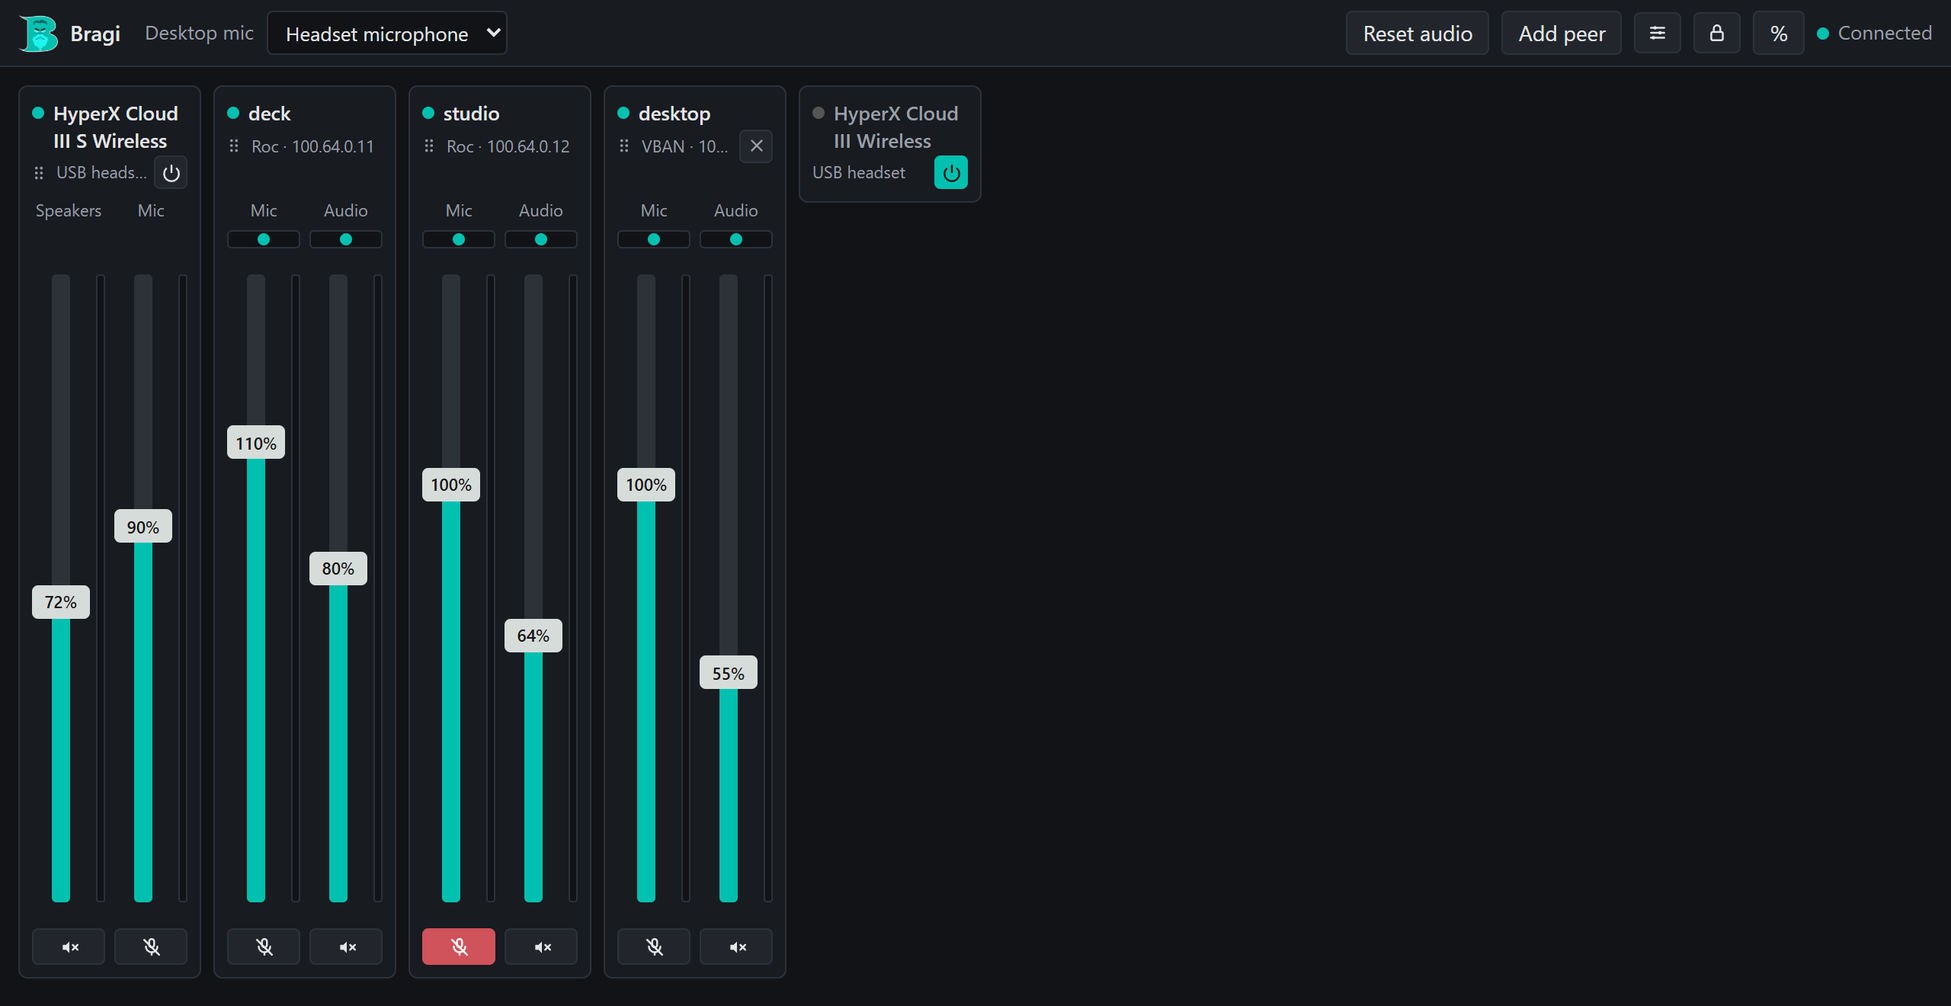
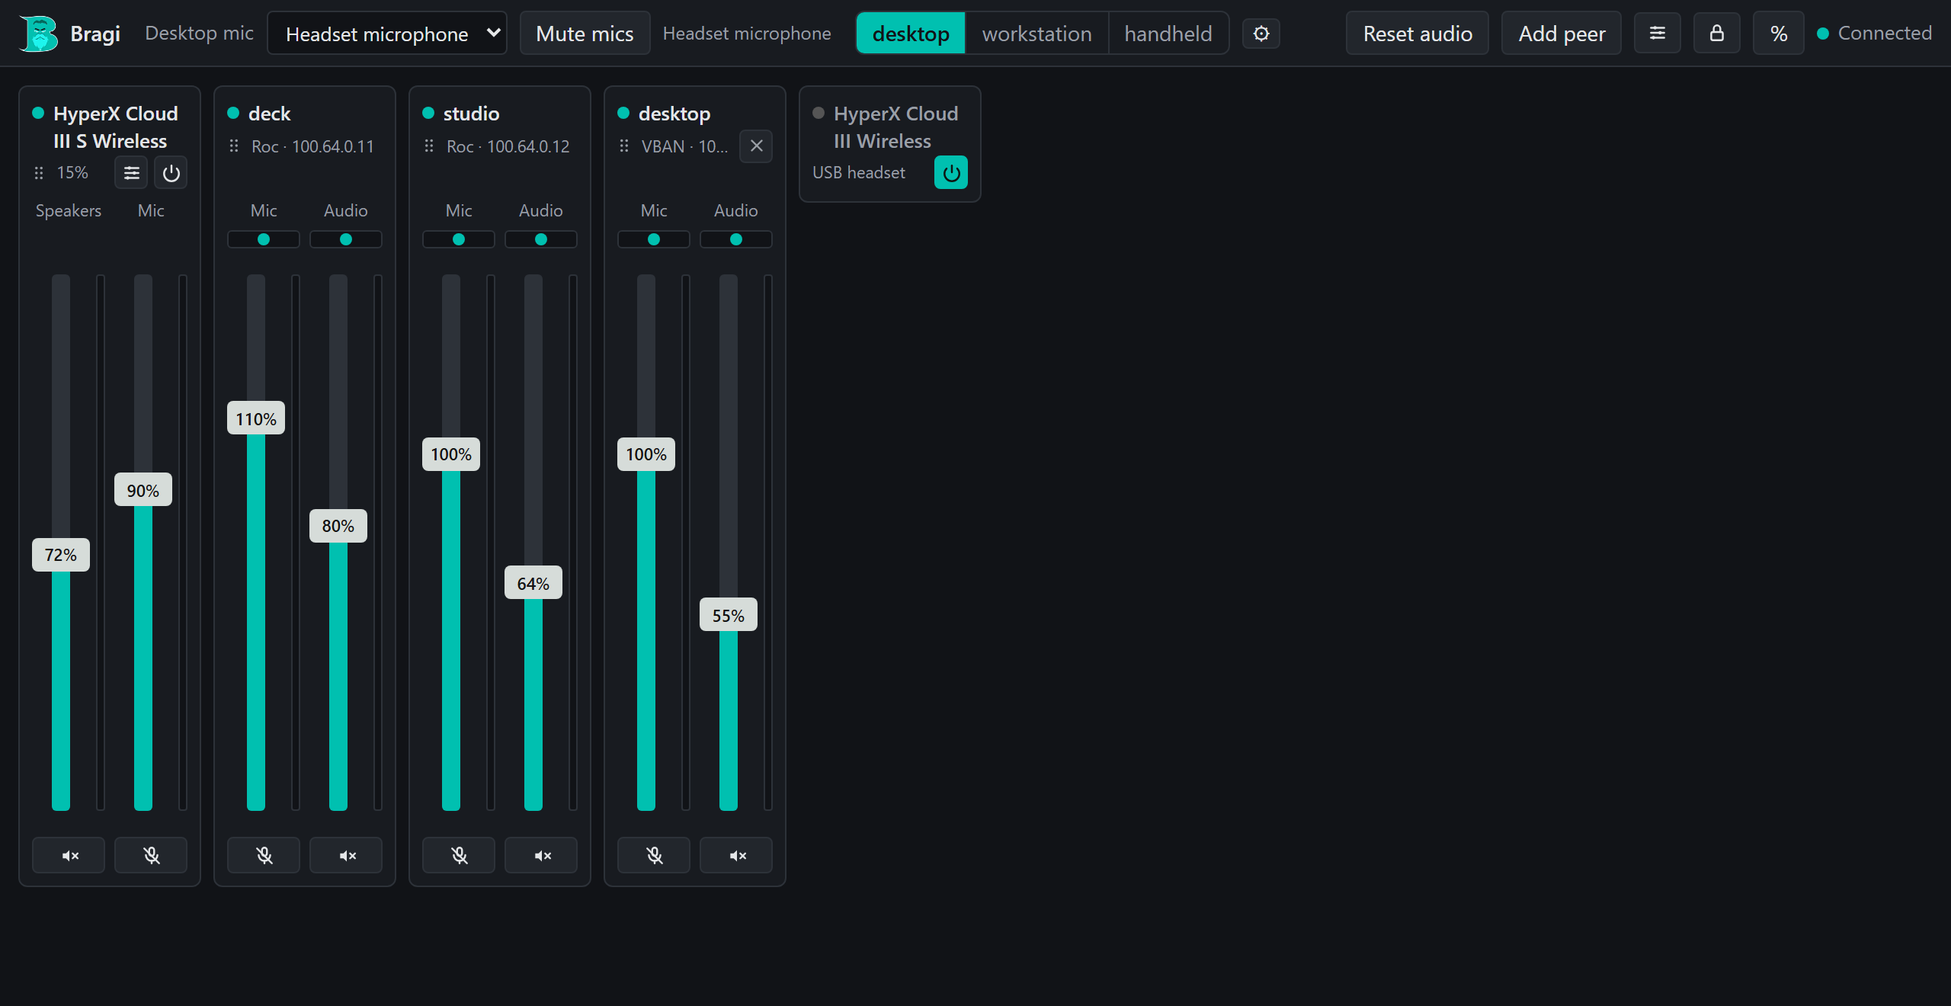
README: the desk hub it has become, with new screenshots (#79)
The README still described an audio hub. Bragi now also runs the KVM
(the headless Deskflow fork, layouts drawn from real monitors, a layout
per setup), game controllers and Bluetooth pairing, button and hotkey
actions, setup checks, backup and hub moves, and dashboard updates. It
also installs from apt rather than Docker.

- New intro and a "Why" section with the aim.
- Features grouped: audio, KVM, controllers and buttons, running the hub.
- Diagram with the Deskflow server and controllers.
- Quick start from the apt repository.
- Screenshots retaken from dev/server.py with generic computer names:
  the dashboard with the KVM bar, the KVM layout editor, the phone view
  and the Add peer dialog.
- client/README.md and the downloads note: the Windows tray app carries
  the VBAN audio itself, and controllers on Windows go through ViGEmBus.
  Neither needs Voicemeeter any more.

diff --git a/app/templates/_downloads.html b/app/templates/_downloads.html
@@ -4,7 +4,7 @@
   <h3>Get the Bragi apps</h3>
   <ul class="download-list">
     <li><a href="{{ downloads.windows }}" rel="noopener">Windows</a>
-      <span class="form-note">tray app{% if downloads.client_version %} {{ downloads.client_version }}{% endif %}: audio with Voicemeeter, KVM, controllers. Updates itself.</span></li>
+      <span class="form-note">tray app{% if downloads.client_version %} {{ downloads.client_version }}{% endif %}: audio, KVM, controllers. Updates itself.</span></li>
     <li><a href="{{ downloads.linux }}" rel="noopener">Linux</a>
       <span class="form-note">tray app (AppImage){% if downloads.client_version %} {{ downloads.client_version }}{% endif %}. Make it executable and run it; it updates itself.</span></li>
     <li><a href="{{ downloads.android }}" rel="noopener">Android</a>

diff --git a/README.md b/README.md
@@ -4,111 +4,181 @@
 
 # Bragi
 
-A dedicated, headless audio hub with a web mixer. Plug a USB headset into
-an always-on Linux box (a Raspberry Pi, or a small x86 server for more USB
-headroom), run Bragi on it, and the
-headset is shared by every machine on your tailnet. Linux desktops, Windows PCs and Android
-phones send their audio to it and hear its mic. Bragi is the control panel
-on top: per-peer volume and balance in both directions, live level meters,
-and adding or removing peers without hand-editing PipeWire config.
+One always-on box at the desk that owns the shared things: the USB headset,
+the keyboard and mouse, the game controllers. Every computer at the desk,
+and the phones, uses them through it. You switch computers, not cables.
 
-![The Bragi dashboard: one USB headset and three peers, each with a mic and an audio fader](docs/screenshots/dashboard.png)
+The box is a Raspberry Pi 4 or a small x86 server, on your tailnet. Bragi
+runs on it and is the control panel: a web mixer for the audio, a KVM that
+hands the keyboard and mouse to whichever computer you point at, and
+dialogs for pairing controllers and wiring buttons to actions. Tray apps
+for Linux and Windows and an Android app connect each device to it.
+
+![The Bragi dashboard: a HyperX headset, three peers with mic and audio faders, and the KVM bar giving the keyboard and mouse to "desktop"](docs/screenshots/dashboard.png)
 
 Named after the Norse god of poetry and eloquence, fitting for something
 that pushes voices around a network.
 
+## Why
+
+A desk with a few computers and one wireless headset means moving the
+headset's dongle to whichever computer you're on, and only that computer
+is heard. Software KVMs share the keyboard and mouse, but they place each
+computer as one rectangle on a grid, so an ultrawide next to a smaller
+monitor leaves corners the cursor falls into.
+
+Bragi turns it around. The peripherals plug into a box that's always on,
+and the computers are its peers. The headset plays every computer at
+once, its mic goes to all of them, and the keyboard and mouse go to one at
+a time.
+
 ## What it does
+
+### Audio
 
 - **Mixer console.** Every headset and peer gets a card with two faders,
   one per direction, with mute, balance, live level meters, and % or dB
   readouts. Every open tab and client stays in sync over a WebSocket.
-- **USB headsets, detected automatically.** Whatever is plugged in shows up.
-  Switching a headset off releases the USB device entirely, not just mutes
-  it. Its physical volume knob works even though the host has no desktop
-  session to catch the media keys.
+- **USB headsets, detected automatically.** Whatever is plugged in shows
+  up, and Settings > Main headset picks which one the peers use. Switching
+  a headset off releases the USB device entirely, not just mutes it. Its
+  physical volume knob works even though the host has no desktop session.
+- **A second headset** for a second person at the desk. It plays
+  everything the main one plays (Settings > Second headset).
+- **A desk mic** can stand in for the headset mic, and follow the
+  headset's mute. "Mute mics" mutes every mic the computers hear.
 - **HyperX Cloud III S Wireless extras.** Battery and charging state on the
-  card, live, plus mic monitoring (hear yourself, with its own volume), the auto-off timer and a 10-band EQ with
-  presets, built-in and your own. The macro button's single, double and
-  triple press can each send an HTTP request or switch mic monitoring. They
-  need a kernel quirk and a udev rule on the host, see
+  card, mic monitoring with its own volume, the auto-off timer, and a
+  10-band EQ with built-in and saved presets. The macro button's single,
+  double and triple press can each run an action. These need a kernel quirk
+  and a udev rule on the host, see
   [`docs/deployment.md`](docs/deployment.md#hyperx-cloud-iii-s-wireless-controls).
 - **Peers over Roc or VBAN.** [Roc](https://roc-streaming.org/) for Linux
-  and Android, VBAN for Windows machines running Voicemeeter. Peers added
-  from the dashboard go live within about a second, and survive PipeWire
-  restarts, reboots and redeploys.
-- **Real presence.** A peer running the Bragi desktop client or the
-  Android app shows a status dot driven by a live connection, not by
-  whether a PipeWire node happens to exist.
-- **A desktop tray client and an Android app.** Both are released from this
-  repo and update themselves.
-- **An HTTP and WebSocket API** with API keys, so other tools can read and
-  set volumes. Its guide is served at `/api/v1/help`.
-- **Recovery tools.** A "Reset audio" button and a nightly reset (its hour
-  set in the dashboard's Settings) restart the PipeWire stack, saving a
-  diagnostic snapshot first.
+  and Android, VBAN for Windows. Peers added from the dashboard go live
+  within about a second, and survive PipeWire restarts, reboots and
+  updates.
+- **Recovery.** "Reset audio" and a nightly reset restart the PipeWire
+  stack, saving a diagnostic snapshot first.
+
+### Keyboard and mouse (KVM)
+
+The keyboard and mouse plug into the hub, and a
+[fork of Deskflow](https://github.com/NickMarcha/deskflow/tree/headless)
+runs on it as a headless server. Each computer runs the normal Deskflow
+client.
+
+- **The KVM bar** at the top of the dashboard, and the tray menu, give the
+  keyboard and mouse to a computer. So do hotkeys and mouse buttons.
+- **A layout drawn from the real monitors.** Each tray app reports its
+  computer's monitors, and the setup dialog draws each computer as those
+  monitors. Drag them until they touch where the cursor should cross. The
+  cursor stays on real monitors, so a smaller screen next to an ultrawide
+  has no dead corner. See [`docs/kvm-layout.md`](docs/kvm-layout.md).
+- **A layout per setup.** Save the layout for the monitors connected now.
+  When a dock or a TV cable brings that set back, the KVM switches to it by
+  itself.
+- **Identify** shows each computer's name on its own screens.
+
+<p align="center">
+  <img src="docs/screenshots/kvm-layout.png" alt="The KVM layout editor: desktop's ultrawide and smaller BenQ on top, handheld and workstation below, with the crossing edges highlighted" width="620">
+</p>
+
+### Controllers, Bluetooth and buttons
+
+- **Game controllers paired with the hub** play on any computer. "Use
+  <controller> here" in the tray moves it. On Linux the computer gets the
+  controller itself over `/dev/uhid`, so paddles, Share and rumble work. On
+  Windows it's a virtual Xbox pad through ViGEmBus.
+- **Bluetooth pairing** for controllers and anything else, from the
+  dashboard. The hub has no screen to do it on.
+- **Buttons and hotkeys run actions.** Keyboard hotkeys, Logitech mouse
+  buttons (HID++) and the headset's macro button can switch computers,
+  press keys on the active one, mute mics or send an HTTP request. A
+  controller's back paddles can copy another button, and Share can press
+  keys.
+
+### Running the hub
+
+- **Tray apps and an Android app**, released from this repo, that update
+  themselves. A QR code or link from "Add peer" fills in their connection.
+- **Settings > Setup** checks the host (lingering, real-time audio, groups,
+  the HyperX quirk, Tailscale) and fixes what it can.
+- **Settings > USB** shows which devices share a full-speed USB lane, the
+  usual reason a second headset or a mic crackles.
+- **Backup and move.** One file holds a hub's settings. Restore it on a new
+  box, then "Move" tells every tray app and phone to follow it there.
+- **Updates from the dashboard** for Bragi and the Deskflow server.
+- **Sign-in** with a password, a passkey, or your Tailscale account, and
+  API keys for other tools. The API guide is served at `/api/v1/help`.
 
 <p align="center">
   <img src="docs/screenshots/mobile.png" alt="The dashboard on a phone" width="300">
   &nbsp;
-  <img src="docs/screenshots/add-peer.png" alt="Adding a Roc or VBAN peer" width="520">
+  <img src="docs/screenshots/add-peer.png" alt="Add peer: app downloads, a connection code, or a peer added by hand" width="420">
 </p>
 
 ## How it fits together
 
 ```
-                          ┌─ Raspberry Pi ─────────────────────────────┐
- Linux desktop ── Roc ──▶ │  PipeWire + WirePlumber                    │
- Android phone ── Roc ──▶ │  Roc and VBAN modules ◀──▶ USB headset     │
- Windows PC ─── VBAN ───▶ │        ▲                                   │
-                          │        │ pw-dump / wpctl / pw-cli          │
- browser, API ─ HTTPS ──▶ │  Bragi (Docker, FastAPI)                   │
-                          └────────────────────────────────────────────┘
-                                  all over Tailscale
+                     ┌─ hub: Pi 4 or a small x86 box ──────────────┐
+ Linux ──── Roc ───▶ │  PipeWire + WirePlumber ◀──▶ USB headsets   │
+ Android ── Roc ───▶ │  Roc and VBAN modules                       │
+ Windows ── VBAN ──▶ │                                             │
+                     │  Deskflow server ◀── USB keyboard and mouse │
+ Deskflow clients ◀─ │                                             │
+                     │  Bragi ◀── Bluetooth controllers            │
+ tray apps ◀──WS───▶ │    drives PipeWire and Deskflow             │
+ browser, API ─────▶ │                                             │
+                     └─────────────────────────────────────────────┘
+                                 all over Tailscale
 ```
 
-Bragi doesn't carry audio. PipeWire does. Bragi shells out to `pw-dump`,
-`wpctl` and `pw-cli`, the same tools you'd use by hand, through the
-PipeWire socket bind-mounted into its container. Peers added from the
-dashboard go into a config file that a `systemd --user` unit on the host
-runs as its own PipeWire client, so they keep running whether or not Bragi
-is up.
+Bragi doesn't carry the audio or the mouse. PipeWire carries the audio, and
+Bragi drives it with `pw-dump`, `wpctl` and `pw-cli`, the same tools you'd
+use by hand. Peers added from the dashboard go into a config file that a
+`systemd --user` unit runs as its own PipeWire client, so they keep running
+whether or not Bragi is up. The Deskflow server moves the mouse. Bragi
+writes its config, switches it and reads its status. Controllers are the
+exception: Bragi reads them on the hub and sends their input to the tray
+app on the computer that has them.
 
 ## Quick start
 
-On any Linux box with PipeWire, a USB headset, Docker and Tailscale:
+On Debian 13 (trixie) or Raspberry Pi OS, arm64 or amd64, with Tailscale:
 
 ```bash
-git clone https://github.com/NickMarcha/bragi.git && cd bragi
-host/systemd/install.sh     # host units, and a .env with this host's uid and groups
-docker compose up -d --build
-tailscale serve --bg --https=443 http://127.0.0.1:8000
+curl -fsSL https://nickmarcha.github.io/apt/install.sh | sh   # adds the apt repository, installs bragi
+sudo apt install deskflow                                     # the headless KVM server, optional
 ```
 
-Open `https://<host>.<tailnet>.ts.net/`, set a password under the lock
-icon, and add peers. [`docs/deployment.md`](docs/deployment.md) has the
-details: host requirements, peers you already configured by hand, and
-running it as a Komodo Stack.
+Open the dashboard on `http://127.0.0.1:8000` (an SSH tunnel works), and
+work through Settings > Setup. It can set up `tailscale serve` so the
+dashboard is at `https://<host>.<tailnet>.ts.net/`. Then set a password
+under the lock icon. [`docs/deployment.md`](docs/deployment.md) covers
+choosing the box, USB placement, the older Docker setup and moving to a new
+hub.
 
-Then connect the peers:
+Then connect the devices. "Add peer" in the dashboard has the download
+links and a connection code:
 
-- **Linux desktop.** Run `BragiClient.AppImage` from the latest `client-v*`
+- **Linux.** Run `BragiClient.AppImage` from the latest `client-v*`
   [release](https://github.com/NickMarcha/bragi/releases). Its "Connect to
-  Bragi" window registers the machine and sets up the audio link.
-  [`client/README.md`](client/README.md).
+  Bragi" window registers the machine and sets up the audio link and the
+  Deskflow client's server address. [`client/README.md`](client/README.md).
+- **Windows.** Install `BragiClient-win-Setup.exe` from the same release.
+  The tray app sends and receives the VBAN audio itself, through any
+  Windows audio device.
 - **Android.** Install `BragiAndroid.apk` from the latest `android-v*`
-  release, enter your Bragi URL, and start.
-  [`android/README.md`](android/README.md).
-- **Windows.** Add a VBAN peer in the dashboard and point Voicemeeter at
-  the Pi on port 6980. The default stream names are `BragiMic` (to the PC)
-  and `<Name>Audio` (from it).
+  release and scan the connection code. [`android/README.md`](android/README.md).
 
 ## Repository layout
 
 | Path | What |
 |---|---|
 | `app/` | The server: FastAPI, Jinja templates, htmx and a WebSocket control plane. |
-| `host/` | `systemd --user` units and scripts that run on the host, outside the container. |
-| `client/` | The Linux tray app (Avalonia, .NET) and its Roc link unit. |
+| `host/` | `systemd --user` units and scripts that run on the host. |
+| `packaging/` | The Debian package. |
+| `client/` | The Linux and Windows tray app (Avalonia, .NET) and its Roc link unit. |
 | `android/` | The Android app (Kotlin). |
 | `dev/` | A local dev loop: the server on a fake PipeWire, Roc CLI tools, an emulator. |
 | `tests/` | Server tests. They run anywhere, no PipeWire needed. |
@@ -116,9 +186,11 @@ Then connect the peers:
 
 ## Docs
 
-- [`docs/deployment.md`](docs/deployment.md): installing and running it on
-  a host, Tailscale, the host units, the reset button, the HyperX
-  controls' kernel quirk and udev rule.
+- [`docs/deployment.md`](docs/deployment.md): choosing the box, installing
+  from apt, USB placement, Tailscale, the host units, the reset button, the
+  HyperX controls' kernel quirk and udev rule, moving to a new hub.
+- [`docs/kvm-layout.md`](docs/kvm-layout.md): why the KVM draws monitors
+  instead of a grid, and how the layout reaches the Deskflow fork.
 - [`docs/development.md`](docs/development.md): the `app/` module map,
   local setup, the test suite and what it can't cover, the `data/` files.
 - [`docs/audio-bridge.md`](docs/audio-bridge.md): the PipeWire graph, the
@@ -134,7 +206,7 @@ Then connect the peers:
   cookies, API keys, and the `/api/v1` API.
 - [`docs/backlog.md`](docs/backlog.md): known bugs and deferred work.
 - [`dev/README.md`](dev/README.md): Android debugging against a local dev
-  server, no Pi or Tailscale needed.
+  server, no hub or Tailscale needed.
 
 ## Development
 
@@ -146,9 +218,10 @@ pytest
 ```
 
 Running the server for real needs a PipeWire session, so in practice you
-work on the Pi or another PipeWire-based Linux machine. For UI work without
+work on the hub or another PipeWire-based Linux machine. For UI work without
 one, `dev/server.py` runs the real app against the tests' fake PipeWire.
-See [`docs/development.md`](docs/development.md).
+The screenshots above come from it. See
+[`docs/development.md`](docs/development.md).
 
 ## Known limitations
 
@@ -159,18 +232,19 @@ These are design constraints. Open bugs are in
   authoritative and reverts per-channel volume writes on a real ALSA sink
   within milliseconds. Balance only holds on the software peer nodes.
 - **One headset at a time on a Pi 4.** All four USB ports share one
-  Full-Speed hub, and two headset streams don't fit reliably. Keep a second
-  headset plugged in and switched off, or use a box whose USB ports sit on
-  separate controllers (an HP MicroServer N54L runs two headsets and a USB
-  mic). Settings > USB shows which devices share bandwidth. See
+  full-speed lane, and two headset streams don't fit reliably. A box whose
+  USB ports sit on separate controllers (an HP MicroServer N54L runs two
+  headsets) avoids it. Settings > USB shows which devices share a lane. See
   [`docs/audio-bridge.md`](docs/audio-bridge.md#dual-headset-playback-and-why-the-pi-runs-one-headset)
   and "USB placement" in [`docs/deployment.md`](docs/deployment.md#usb-placement).
+- **Monitor shapes need the fork.** Upstream Deskflow treats each computer
+  as one rectangle. Bragi only writes the monitors when the server reports
+  it understands them, otherwise the layout falls back to whole-computer
+  edges.
 - **VBAN peers share one port and one format.** All use port 6980 at 48 kHz,
   16-bit stereo, and each needs a stream name no other VBAN peer uses.
 - **Adding or removing a managed peer briefly drops all of them.** The host
   unit restarts the whole `peers.conf` process, about a second of silence.
-- **Peers configured outside Bragi** (`managed: false` in `peers.yaml`) get
-  volume control but can't be removed from the UI.
 - **The HyperX EQ can't be read back.** The headset has no command for it,
   so the dashboard shows the last EQ Bragi set. One set from NGENUITY on
   another computer won't show.

diff --git a/client/README.md b/client/README.md
@@ -2,9 +2,8 @@
 
 A tray app (Avalonia, .NET) for desktops that talk to Bragi. On Linux it
 turns the Roc link to the Bragi host on and off and shows its status. On
-Windows the audio still goes over VBAN through Voicemeeter, and the app
-registers the computer and shows the stream names to set Voicemeeter to
-(see [Windows](#windows)). On both it gives you a volume window for every
+Windows the app sends and receives the VBAN audio itself (see
+[Windows](#windows)). On both it gives you a volume window for every
 peer and headset and keeps the dashboard's status dot for this machine
 live. See [`../docs/audio-bridge.md`](../docs/audio-bridge.md) for the audio
 bridge this is part of.
@@ -70,17 +69,17 @@ each value) and run `systemctl --user enable --now bragi-roc-link.service`.
    Linux. The computer registers as a VBAN peer. A VBAN peer you already
    added from the dashboard under the same name is reused, stream names and
    all, so a working Voicemeeter setup stays as it is.
-3. The tray menu shows the two VBAN streams: "VBAN in" is the headset mic
-   the Bragi host sends here, "VBAN out" is what Voicemeeter should send
-   back. Set Voicemeeter's VBAN incoming and outgoing streams to match.
+3. In the tray menu's Audio submenu, "Play the headset mic on" picks the
+   output for the headset mic, and "Send to the headset" picks what goes
+   back: what plays on an output (its loopback), or a microphone or input.
+   Voicemeeter isn't needed. If you used its VBAN before, turn that off so
+   the streams aren't sent twice.
 4. Turn on "Start at Login" (a value under
    `HKCU\Software\Microsoft\Windows\CurrentVersion\Run`).
 
 The settings live in `%APPDATA%\bragi-client\link.env`, in the same
-`KEY=VALUE` format as Linux. There's no Enable or Restart Link item:
-Voicemeeter owns the audio for now, so the status reads as linked once the
-computer is set up. Carrying the audio in the app itself (WASAPI against
-Voicemeeter's virtual devices, sent as VBAN) is the next step.
+`KEY=VALUE` format as Linux. The audio goes through WASAPI (NAudio) and is
+sent as VBAN.
 
 ## Components
 
@@ -159,7 +158,9 @@ Both need write access to the device node. Steam's udev rules
 (`60-steam-input.rules`) give `/dev/uinput` to the logged-in user;
 `/dev/uhid` comes with Sunshine's or Apollo's rules, or a rule of your own
 (`KERNEL=="uhid", TAG+="uaccess"`). Without access the menu item says so.
-Windows shows the item but can't play the controller yet.
+On Windows the app plays the controller as a virtual Xbox 360 pad
+through the ViGEmBus driver, which you install yourself; without it the
+menu item says so.
 
 Everything goes over the same `/ws/peer/{PEER_NAME}` socket as the
 presence heartbeat below. The app sends `gamepad_hello` with the modes it
